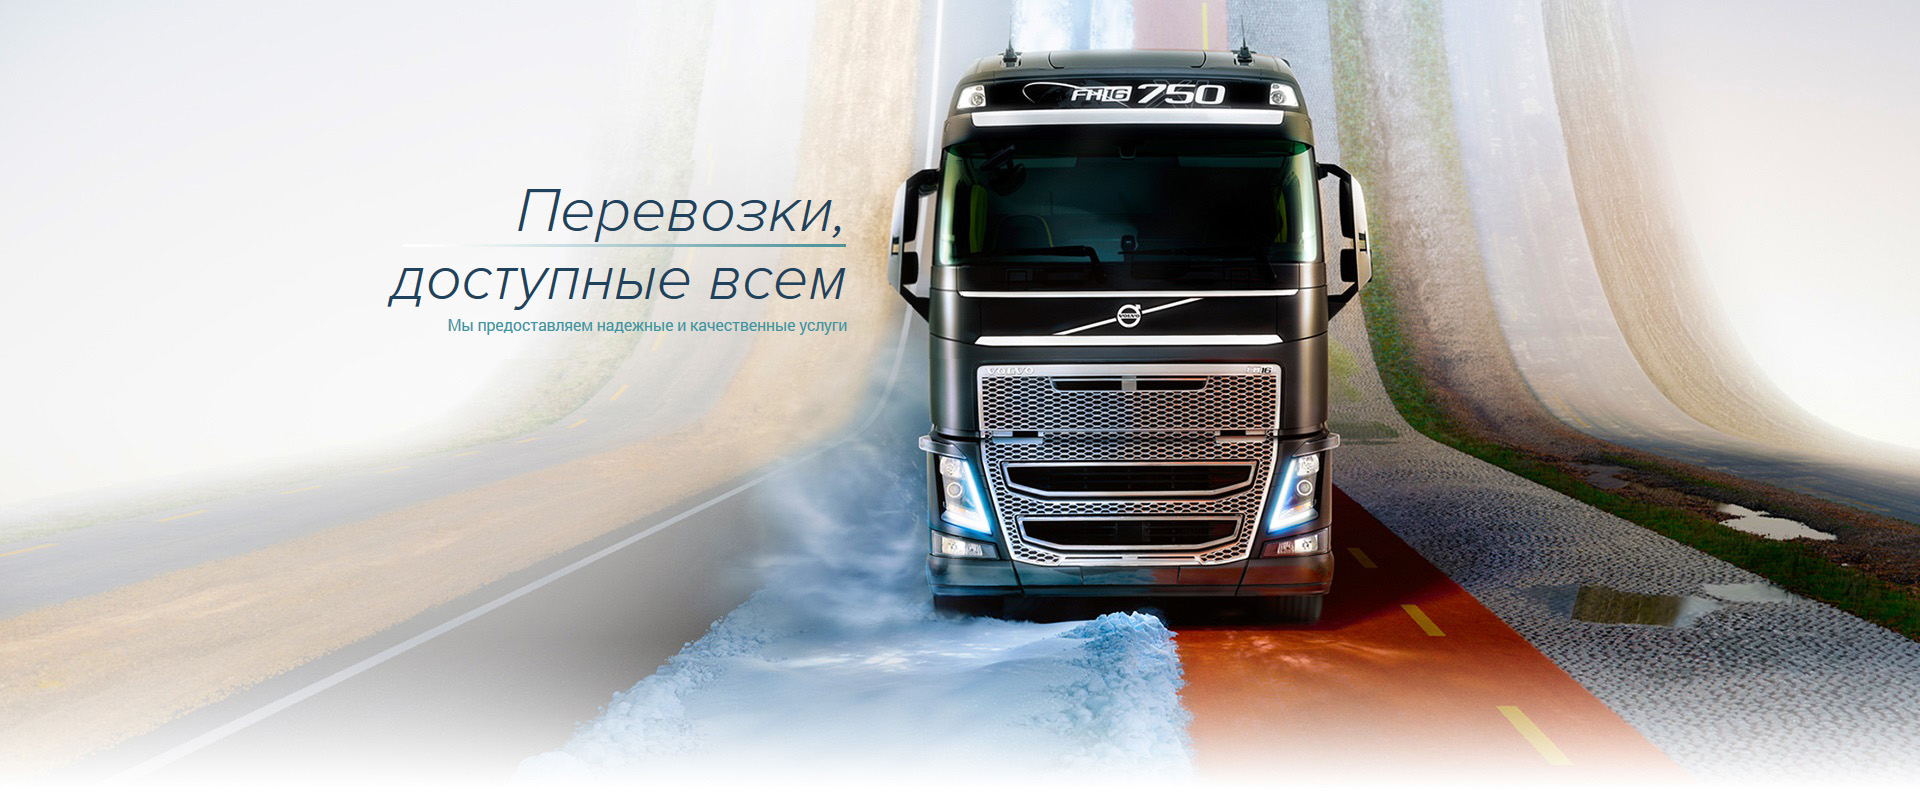
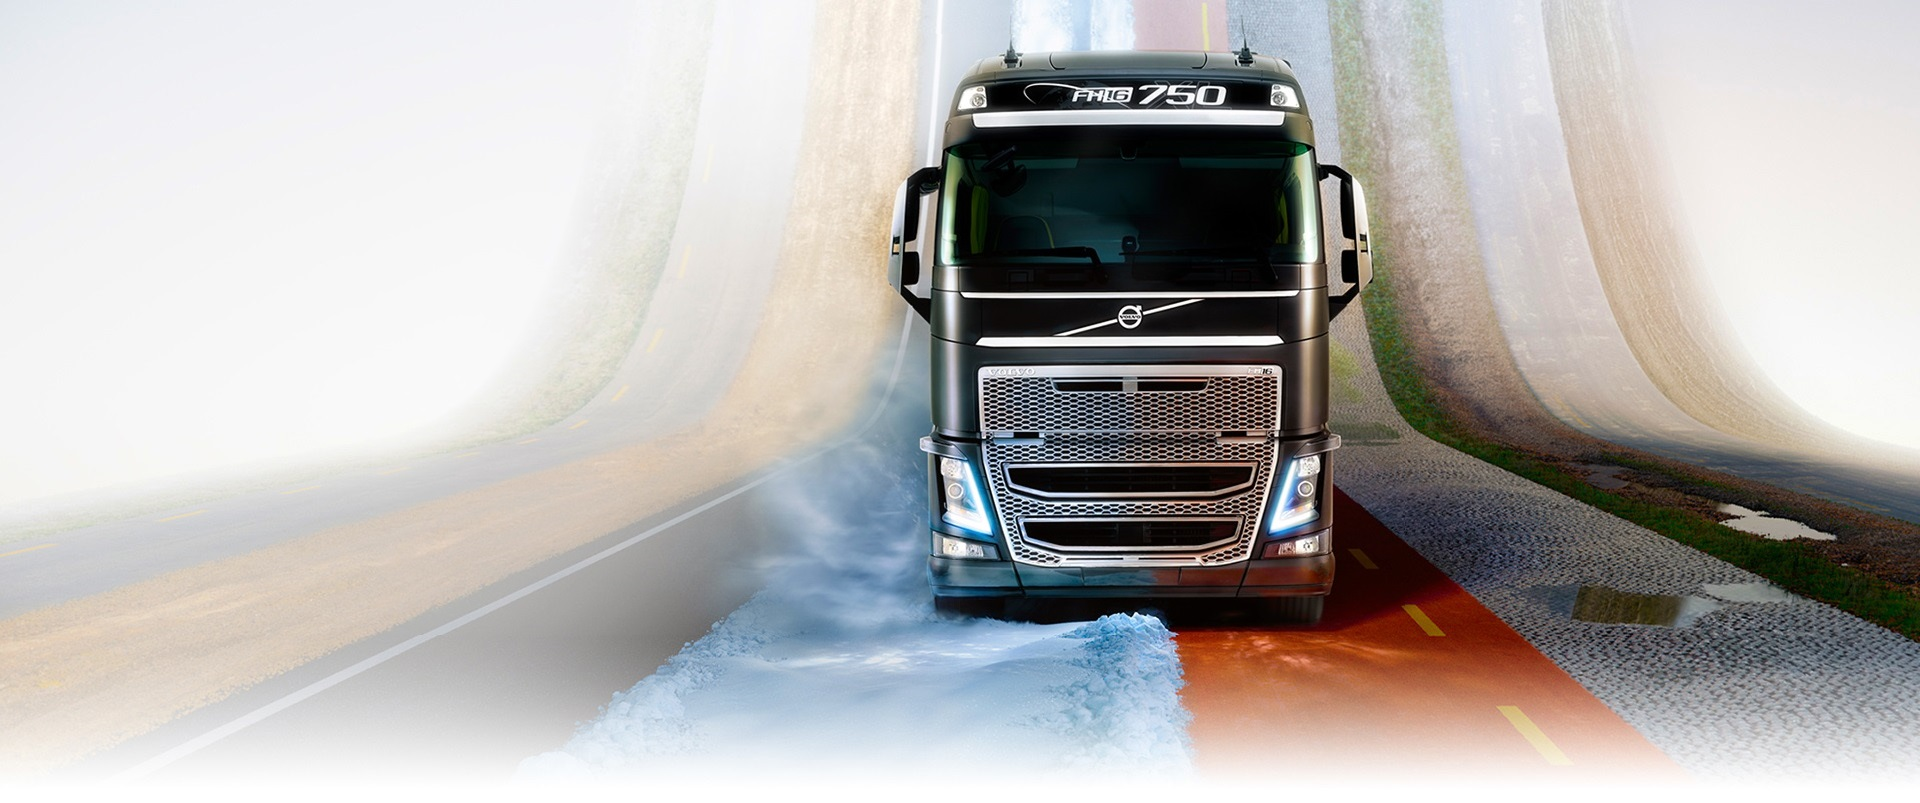
update

Changed region(s): [[0.4688, 0.0623, 0.7188, 0.8095], [0.1875, 0.2491, 0.4375, 0.4359]]

diff --git a/css/style.css b/css/style.css
@@ -7,6 +7,7 @@ body {
   background-color: #ffffff;
   background-position: top center;
   background-repeat: repeat;
+  min-width: 1250px; 
 }
 
 a {
@@ -42,9 +43,9 @@ map {
 .container-image {
   background-position: top center;
   background-repeat: no-repeat;
-  background: url(../img/main-background.jpg) center;
   object-fit: cover;
-  height: 100vmin;
+  width: 100%;
+  height: auto;
   background-size: cover;
 }
 
@@ -53,20 +54,9 @@ map {
   margin-bottom: -4px;
 }
 
-/*
 .container-image img {
   height: 100%;
   width: 100%;
-}
-*/
-
-.background-mainly {
-  display: flex;
-  flex-wrap: wrap;
-  width: 100% !important;
-  position: absolute;
-  top: 348px;
-  left: 189px;
 }
 
 .line-img {
@@ -1396,4 +1386,17 @@ map {
 .button-question {
   text-align: center;
   margin: -1px 43px 15px 0;
+}
+
+.background-mainly {
+  display: flex;
+  flex-wrap: wrap;
+  width: 100% !important;
+  position: absolute;
+  top: 348px;
+  left: 189px;
+}
+
+.container {
+  max-width: 1200px !important;
 }

diff --git a/index.html b/index.html
@@ -8,6 +8,7 @@
 	<link rel='stylesheet' href='css/bootstrap-grid.css' type='text/css' />
 	<link rel='stylesheet' href='css/fonts.css' type='text/css' />
 	<link href="https://fonts.googleapis.com/css?family=Roboto:400,400i" rel="stylesheet">
+	<meta name="viewport" content="width=device-width, initial-scale=1">
 	<title>Maister tk</title>
 </head>
 
@@ -125,8 +126,7 @@
 		</div>
 	</nav>
 	<div class="container-image">
-		<!--
-		<img src="img/main-background.jpg" alt="track" height="803" width="1920px">
+		<img src="img/main-background.jpg" alt="track">
 		<div class="container background-mainly">
 			<div class="row">
 				<div class="col-12">
@@ -139,7 +139,6 @@
 				</div>
 			</div>
 		</div>
-		-->
 	</div>
 	<main class="mainly">
 		<!-- container with background image-->
